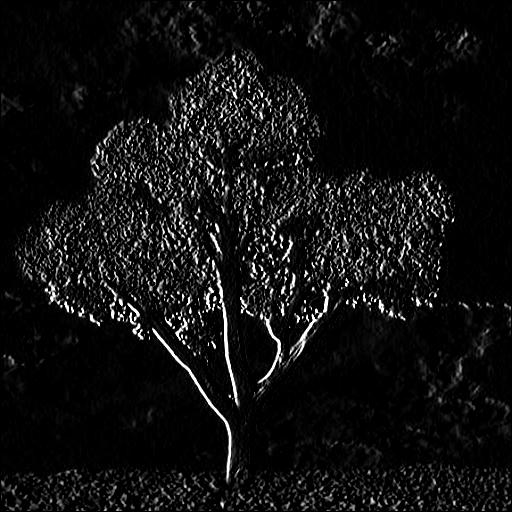
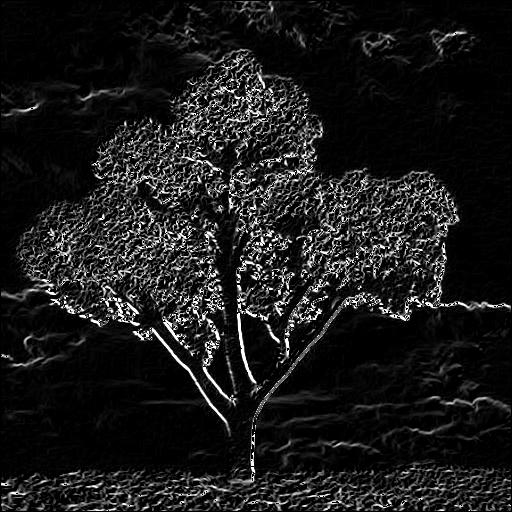
sobel working pretty much

diff --git a/image-processing-in-rust/src/sobel.rs b/image-processing-in-rust/src/sobel.rs
@@ -1,27 +1,34 @@
 extern crate image;
 use std::fs::File;
-use image::GenericImage;
+use image::{GenericImage, Pixel};
 
 pub fn sobel_detector_test() {
     let img = image::open("test.jpg").unwrap();
 
-    println!("dimensions: {:?}", img.dimensions());
-    println!("color : {:?}", img.grayscale().color());
-
     let mut gray_im = img.grayscale();
 
     let filt_x: &[f32] = &[-1f32,0f32,1f32,-2f32,0f32,2f32,-1f32,0f32,1f32];
-    let filt: &[f32] = &[-1f32,-2f32, -1f32, 0f32,0f32, 0f32, 1f32, 2f32,1f32];
-    let gray_x = gray_im.filter3x3(filt_x);
+    let filt_y: &[f32] = &[-1f32,-2f32, -1f32, 0f32,0f32, 0f32, 1f32, 2f32,1f32];
+    let mut gray_x = gray_im.filter3x3(filt_x);
     let gray_y = gray_im.filter3x3(filt_y);
 
     let mut sobeled_im = image::ImageBuffer::new(512, 512);
 
     for i in 0..512 {
         for j in 0..512 {
-            sobeled_im.get_pixel_mut(i, j) = (gray_x.get_pixel(i, j).pow(2));
+            let mut px1_sq = gray_x.get_pixel(i, j).channels()[0] as f32;
+            let mut px2_sq = gray_y.get_pixel(i, j).channels()[0] as f32;
+
+            px1_sq = px1_sq.powf(2.);
+            px2_sq = px2_sq.powf(2.);
+
+            let new_px = gray_x.get_pixel(i, j).map(|v| (px1_sq + px2_sq).sqrt().ceil() as u8);
+            sobeled_im.put_pixel(i, j, new_px);
         }
     }
 
-    gray_im.save("sobel.jpg");
+    gray_x.save("gray_x.jpg");
+    gray_y.save("gray_y.jpg");
+    sobeled_im.save("sobel.jpg");
+    
 }
